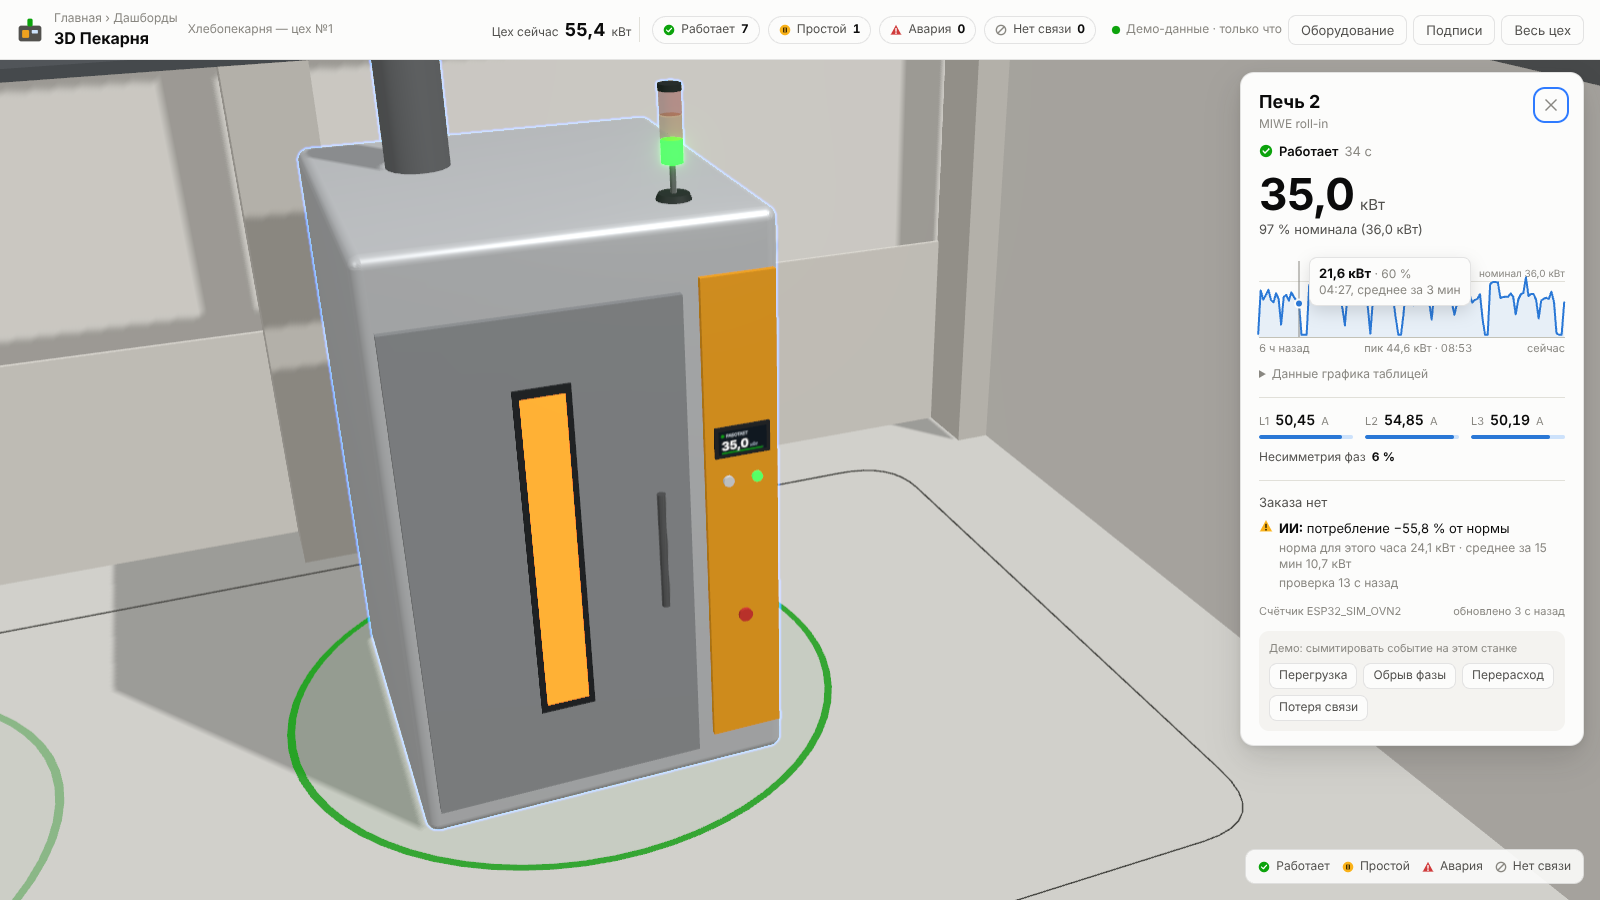
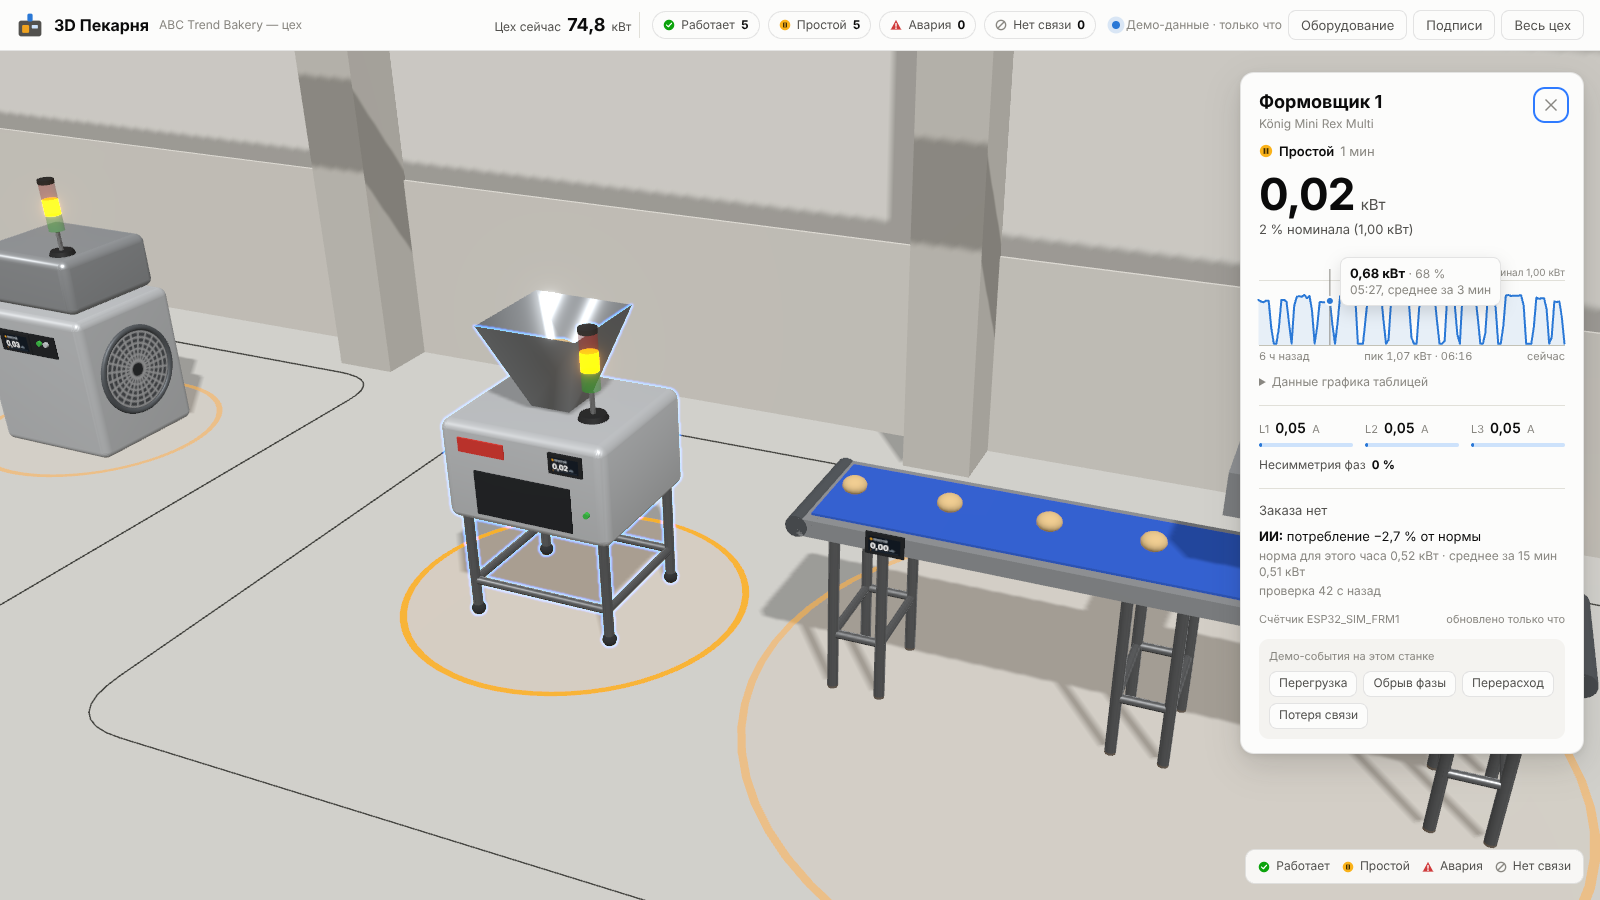
Добавить тикет 08 (заказы из Telegram-бота) и обновить скриншоты в README
Claude-Session: https://claude.ai/code/session_01B6bSoYo6imThzUEbpwX5cu

diff --git a/.scratch/next-steps/issues/08-orders-from-telegram-bot.md b/.scratch/next-steps/issues/08-orders-from-telegram-bot.md
@@ -1,0 +1,11 @@
+# 08: Заказ в карточке станка из Telegram-бота компании
+
+**What to build:** В карточке станка вместо «Заказа нет» показывается заказ HoReCa-клиента, который сейчас в работе на этом этапе: заказы приходят из Telegram-бота ABC Trend Bakery (@trendbakery_uz_bot) и привязываются к этапам/станкам.
+
+**Blocked by:** 01 (Живые показания симулятора в 3D-сцене)
+
+**Status:** needs-info
+
+- [ ] Понятно, откуда бот отдаёт заказы (API/таблица/база) и какие у заказа поля — вопрос к заказчику
+- [ ] Заказ виден в карточке станка, который его обрабатывает
+- [ ] Без связи с ботом карточка показывает «Заказа нет», сцена работает

diff --git a/.scratch/next-steps/map.md b/.scratch/next-steps/map.md
@@ -2,4 +2,4 @@
 
 Черновик разбивки на тикеты (навык `to-tickets`). Статус всех тикетов — `needs-triage`: ждут подтверждения заказчиком гранулярности и зависимостей, после чего переводятся в `ready-for-agent`.
 
-Фронтир (можно начинать сразу): 01, 05.
+Фронтир (можно начинать сразу): 01, 05. Тикет 08 ждёт информации от заказчика (needs-info).
